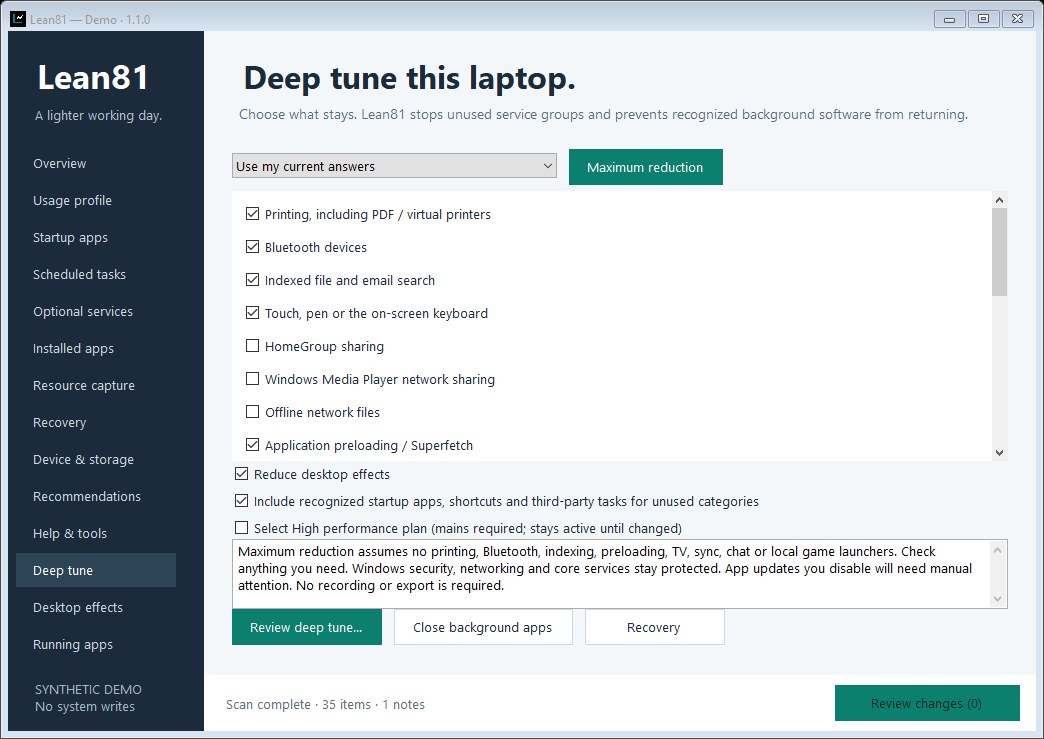
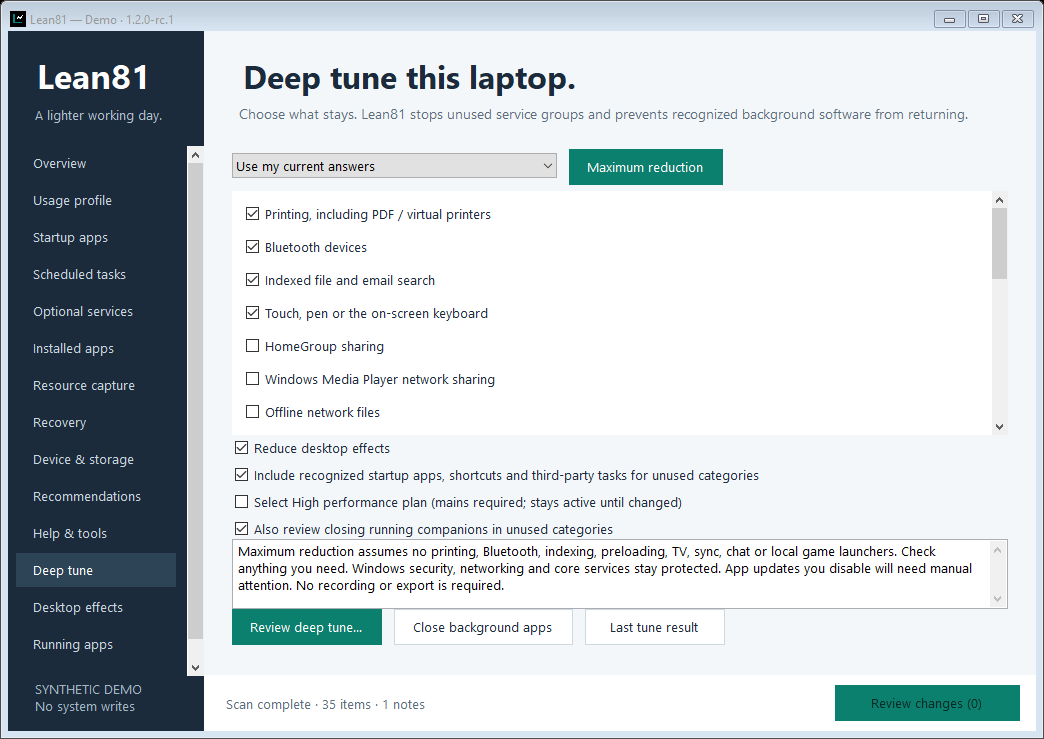
Add reviewed candidate screenshots and link the tuning result guide

Changed region(s): [[0.1533, 0.1867, 0.7356, 0.9337], [0.5824, 0.8403, 0.6743, 0.8714], [0.9502, 0.3735, 0.9808, 0.4046]]

diff --git a/README.md b/README.md
@@ -6,7 +6,7 @@ Lean81 stops reviewed unused services, prevents recognized background software f
 
 [Download Lean81 1.1](https://github.com/HamWebDevs/Lean81/releases/tag/v1.1.0) · [Quick start](docs/QUICKSTART.txt) · [Deep-tune guide](docs/FEATURES.md) · [Recovery](docs/RECOVERY.md)
 
-**In development: 1.2.0-rc.1.** Deep tune now combines configuration changes and selected running-companion closure in one review. Its result page shows each action, direct group recovery and optional short CPU/RAM/disk observations inside Lean81. The stable download above remains 1.1. See the [candidate notes](docs/RELEASE-1.2.0-rc.1.md) and [release validation plan](docs/RELEASE-READINESS.md).
+**In development: 1.2.0-rc.1.** Deep tune now combines configuration changes and selected running-companion closure in one review. Its result page shows each action, direct group recovery and optional short CPU/RAM/disk observations inside Lean81. The stable download above remains 1.1. See the [candidate notes](docs/RELEASE-1.2.0-rc.1.md) and [release validation plan](docs/RELEASE-READINESS.md). [View the candidate result screen](docs/screenshots/tune-result.png) (synthetic data).
 
 ![Deep tune with synthetic data](docs/screenshots/deep-tune.png)
 
